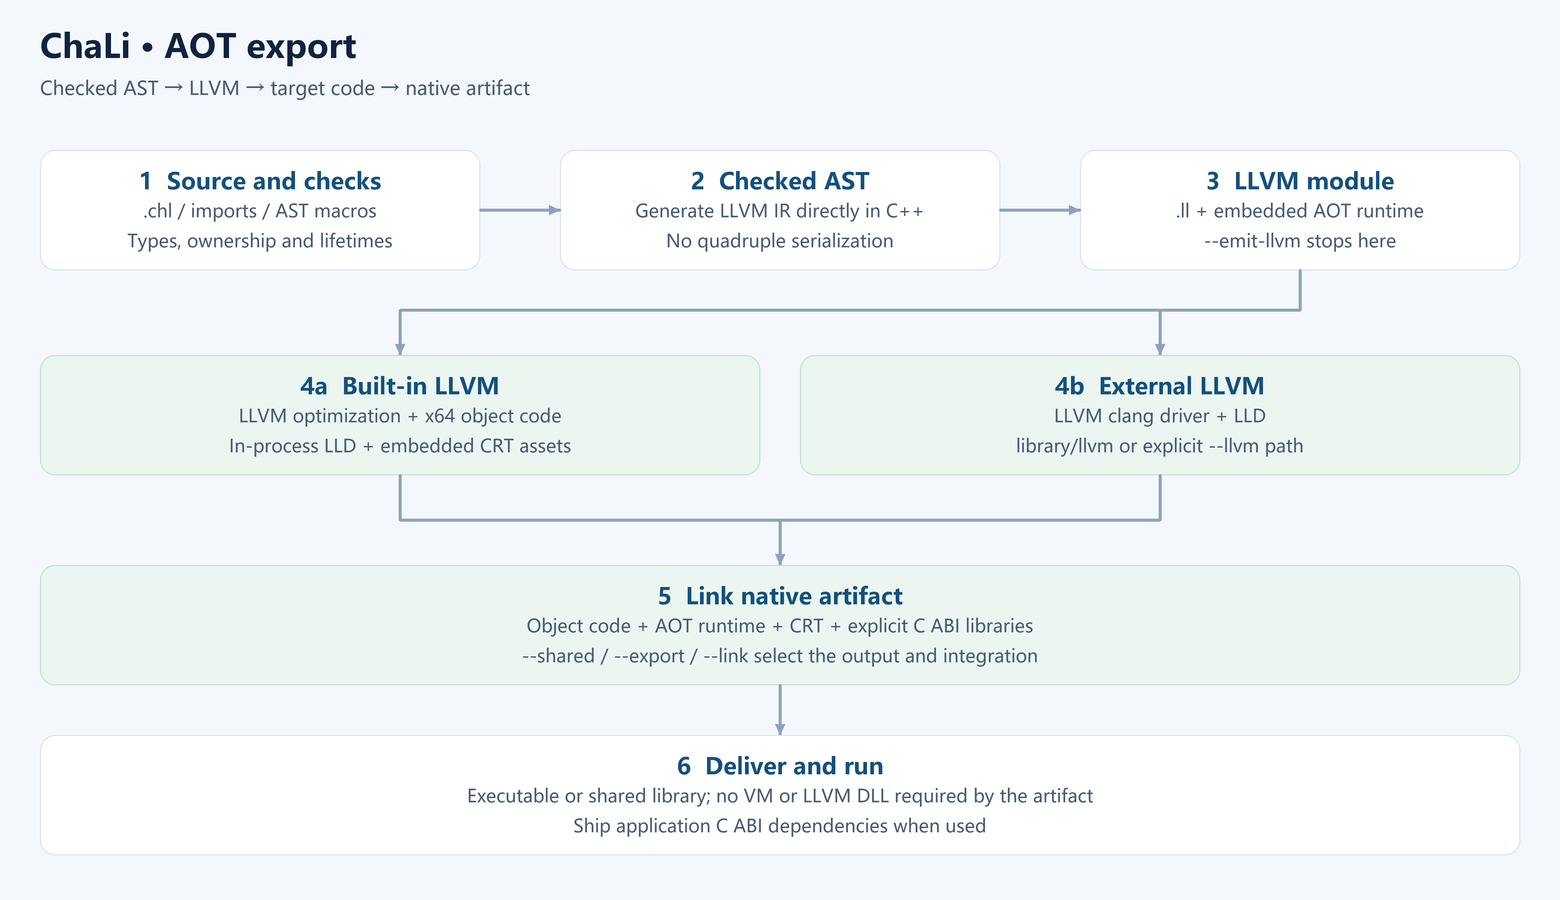
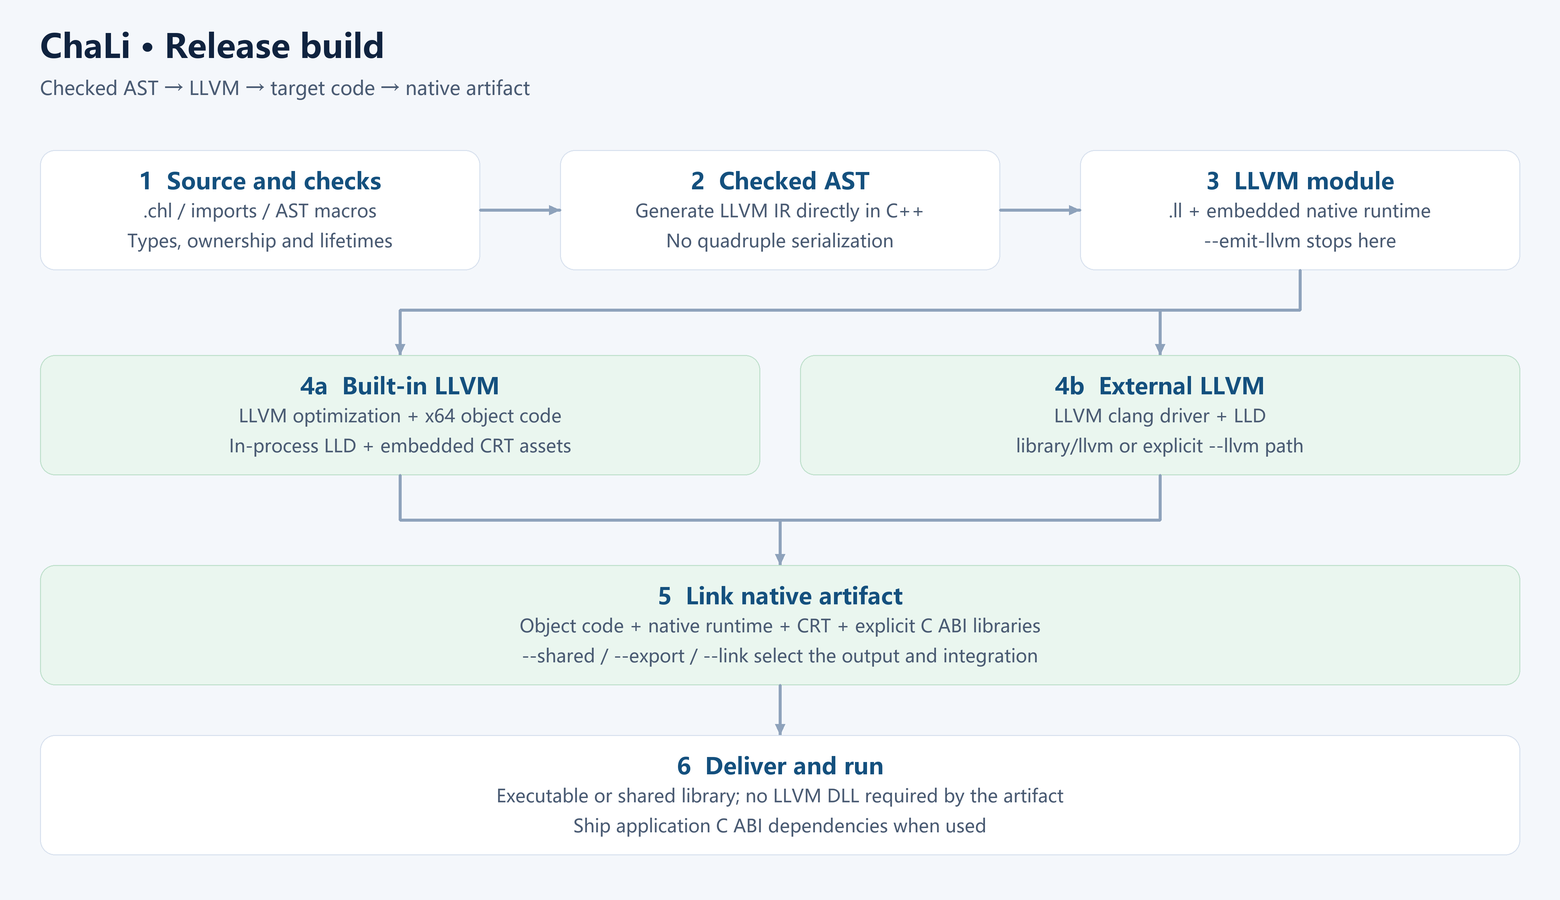
统一文档流程图中的 Build 文案并同步中英文书稿插图

diff --git a/tools/make_pipeline_diagrams.py b/tools/make_pipeline_diagrams.py
@@ -61,8 +61,8 @@ def compilation(english=False):
     """展示语义检查后的 AST 直接生成 LLVM IR 与原生产物。"""
     c = Canvas()
     title(c, "ChaLi · Compilation" if english else "ChaLi · 编译过程",
-          "Generated front end → checked AST → LLVM AOT" if english else
-          "文法生成前端 → 语义与借用检查 → 已检查 AST → LLVM AOT")
+          "Generated front end → checked AST → LLVM Build" if english else
+          "文法生成前端 → 语义与借用检查 → 已检查 AST → LLVM Build")
     nodes = [
         (40, 145, "1  Source" if english else "1  源码与模块", [".chl + imports", "Embedded standard library"] if english else [".chl 与模块依赖", "内嵌标准库"]),
         (560, 145, "2  Preprocessing" if english else "2  条件预处理", ["%define / %if / %ifdef", "Source locations retained"] if english else ["%define / %if / %ifdef", "保留源文件与行号"]),
@@ -86,8 +86,8 @@ def compilation(english=False):
          "Code generation and link-time optimization" if english else "机器码生成与链接时优化"], green=True)
     outputs = [
         (40, "LLVM IR / object" if english else "LLVM IR／目标文件", ["--emit-llvm / --emit-obj", "--target selects platform and CPU"] if english else ["--emit-llvm / --emit-obj", "--target 选择目标平台与架构"]),
-        (560, "run · checked AOT", ["Compile native code and execute", "Checks enabled"] if english else ["编译原生机器码并执行", "开启数组与指针检查"]),
-        (1080, "AOT · native export" if english else "AOT · 原生导出", ["Unchecked export by default", "Executable or shared library"] if english else ["缺省 unchecked 导出", "可执行文件或动态库"]),
+        (560, "run · checked Build", ["Compile native code and execute", "Checks enabled"] if english else ["编译原生机器码并执行", "开启数组与指针检查"]),
+        (1080, "Build · native export" if english else "Build · 原生导出", ["Unchecked export by default", "Executable or shared library"] if english else ["缺省 unchecked 导出", "可执行文件或动态库"]),
     ]
     arrow(c, ((40, 375), (20, 375), (20, 675), (260, 675), (260, 720)))
     arrow(c, ((1100, 605), (1100, 665), (780, 665), (780, 720)))
@@ -111,8 +111,8 @@ def aot(english=False):
          ["Generate LLVM IR directly in C++", "No quadruple serialization"] if english else
          ["C++ 后端直接生成 LLVM IR", "跳过四元式生成、写盘与重读"]),
         (1080, "3  LLVM module" if english else "3  LLVM 中间表示",
-         [".ll + embedded AOT runtime", "--emit-llvm stops here"] if english else
-         [".ll 与内嵌 AOT 运行时", "--emit-llvm 在此停止"]),
+         [".ll + embedded native runtime", "--emit-llvm stops here"] if english else
+         [".ll 与内嵌原生运行时", "--emit-llvm 在此停止"]),
     ]
     for x, heading, lines in rows:
         box(c, x, 150, 440, heading, lines)
@@ -129,8 +129,8 @@ def aot(english=False):
     arrow(c, ((400, 475), (400, 520), (1160, 520), (1160, 475)), head=False)
     arrow(c, ((780, 520), (780, 565)))
     box(c, 40, 565, 1480, "5  Link native artifact" if english else "5  链接原生产物",
-        ["Object code + AOT runtime + CRT + explicit C ABI libraries" if english else
-         "目标代码 + AOT 运行时 + CRT + 显式声明的 C ABI 库",
+        ["Object code + native runtime + CRT + explicit C ABI libraries" if english else
+         "目标代码 + 原生运行时 + CRT + 显式声明的 C ABI 库",
          "--shared / --export / --link select the output and integration" if english else
          "通过 --shared、--export、--link 配置动态库、导出函数与链接库"], green=True)
     arrow(c, ((780, 685), (780, 735)))
@@ -149,10 +149,9 @@ def main():
         for name, draw in (("compilation", compilation), ("aot", aot)):
             path = OUT / f"chali-{name}{'-en' if english else ''}"
             draw(english).save(str(path.with_suffix('.png')), str(path.with_suffix('.svg')))
-            if not english:
-                book_path = ROOT / 'doc/book/images' / path.with_suffix('.png').name
-                book_path.parent.mkdir(parents=True, exist_ok=True)
-                book_path.write_bytes(path.with_suffix('.png').read_bytes())
+            book_path = ROOT / 'doc/book/images' / path.with_suffix('.png').name
+            book_path.parent.mkdir(parents=True, exist_ok=True)
+            book_path.write_bytes(path.with_suffix('.png').read_bytes())
             print(path.name)
 
 

diff --git a/README.en.md b/README.en.md
@@ -32,7 +32,7 @@ See [naming and related capabilities](doc/en/37-name-freeze.md) for references a
 
 Conditional preprocessing precedes the generated parser. Hygienic AST macros expand during semantic analysis alongside type inference. After name, type, generic and borrow checks, the C++ backend generates LLVM IR directly from the checked AST; LLVM optimizes it and generates native code. Normal run and AOT paths skip quadruple generation, serialization and assembly.
 
-![ChaLi compilation: conditional preprocessing, parsing, semantic macro expansion, borrow checks, checked AST and LLVM AOT](doc/images/chali-compilation-en.png)
+![ChaLi compilation: conditional preprocessing, parsing, semantic macro expansion, borrow checks, checked AST and LLVM Build](doc/images/chali-compilation-en.png)
 
 ## Release build
 

diff --git a/README.md b/README.md
@@ -30,7 +30,7 @@ See [naming and related capabilities](doc/en/37-name-freeze.md) for references a
 
 Conditional preprocessing precedes the generated parser. Hygienic AST macros expand during semantic analysis alongside type inference. After name, type, generic and borrow checks, the C++ backend generates LLVM IR directly from the checked AST; LLVM optimizes it and generates native code. Normal run and AOT paths skip quadruple generation, serialization and assembly.
 
-![ChaLi compilation: conditional preprocessing, parsing, semantic macro expansion, borrow checks, checked AST and LLVM AOT](doc/images/chali-compilation-en.png)
+![ChaLi compilation: conditional preprocessing, parsing, semantic macro expansion, borrow checks, checked AST and LLVM Build](doc/images/chali-compilation-en.png)
 
 ## Release build
 
